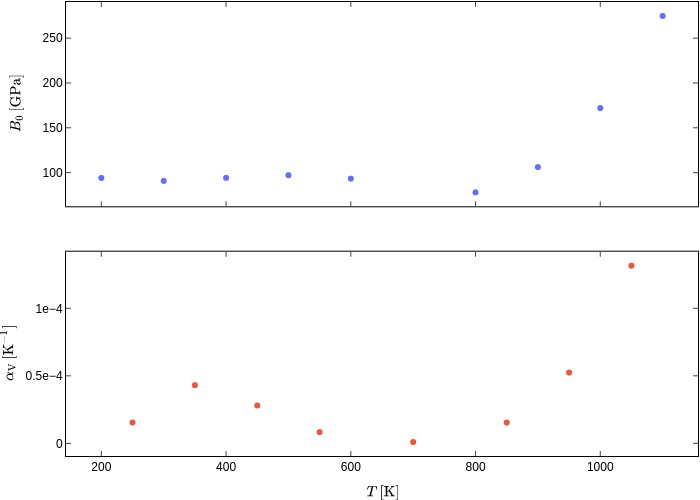
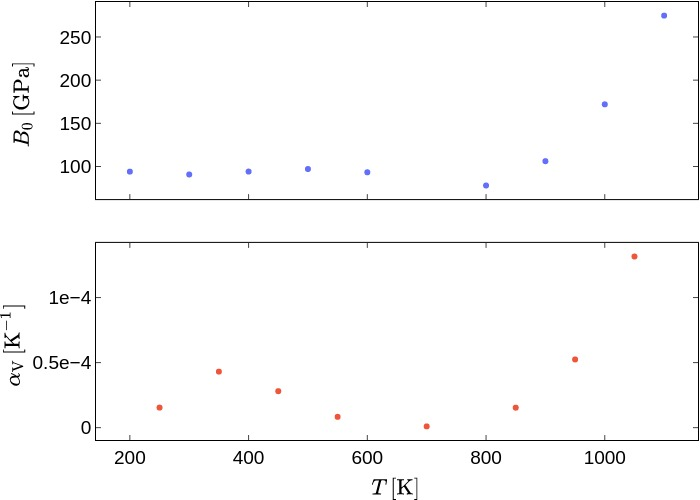
fix: font sizes

diff --git a/ml4md/plot_material_properties.py b/ml4md/plot_material_properties.py
@@ -66,6 +66,15 @@ def main():
 
     t2 = np.array([((t[i + 1] + t[i]) / 2) for i in range(len(t) - 1)])
 
+
+    print("b0", file=sys.stderr)
+    print(t, file=sys.stderr)
+    print(b_0, file=sys.stderr)
+
+    print("alpha", file=sys.stderr)
+    print(t2, file=sys.stderr)
+    print(alpha, file=sys.stderr)
+
     fig = plotly.subplots.make_subplots(
         rows=2,
         cols=1,
@@ -104,13 +113,13 @@ def main():
     )
 
     fig.update_xaxes(
-        title_text="$T \, [\mathrm{K}]$",
+        title_text="$\large{T \, [\mathrm{K}]}$",
         col=1,
         row=2
     )
 
     fig.update_yaxes(
-        title_text="$B_0 \, [\mathrm{GPa}]$",
+        title_text="$\large{B_0 \, [\mathrm{GPa}]}$",
         exponentformat="e",
         showgrid=False,
         linewidth=1,
@@ -123,7 +132,7 @@ def main():
     )
 
     fig.update_yaxes(
-        title_text="$\\alpha_\mathrm{V} \, [\mathrm{K}^{-1}]$",
+        title_text="$\large{\\alpha_\mathrm{V} \, [\mathrm{K}^{-1}]}$",
         exponentformat="e",
         showgrid=False,
         linewidth=1,
@@ -137,6 +146,7 @@ def main():
     )
 
     fig.update_layout(
+        font_size=19,
         font_color="#000",
         plot_bgcolor="#fff",
         showlegend=False,
